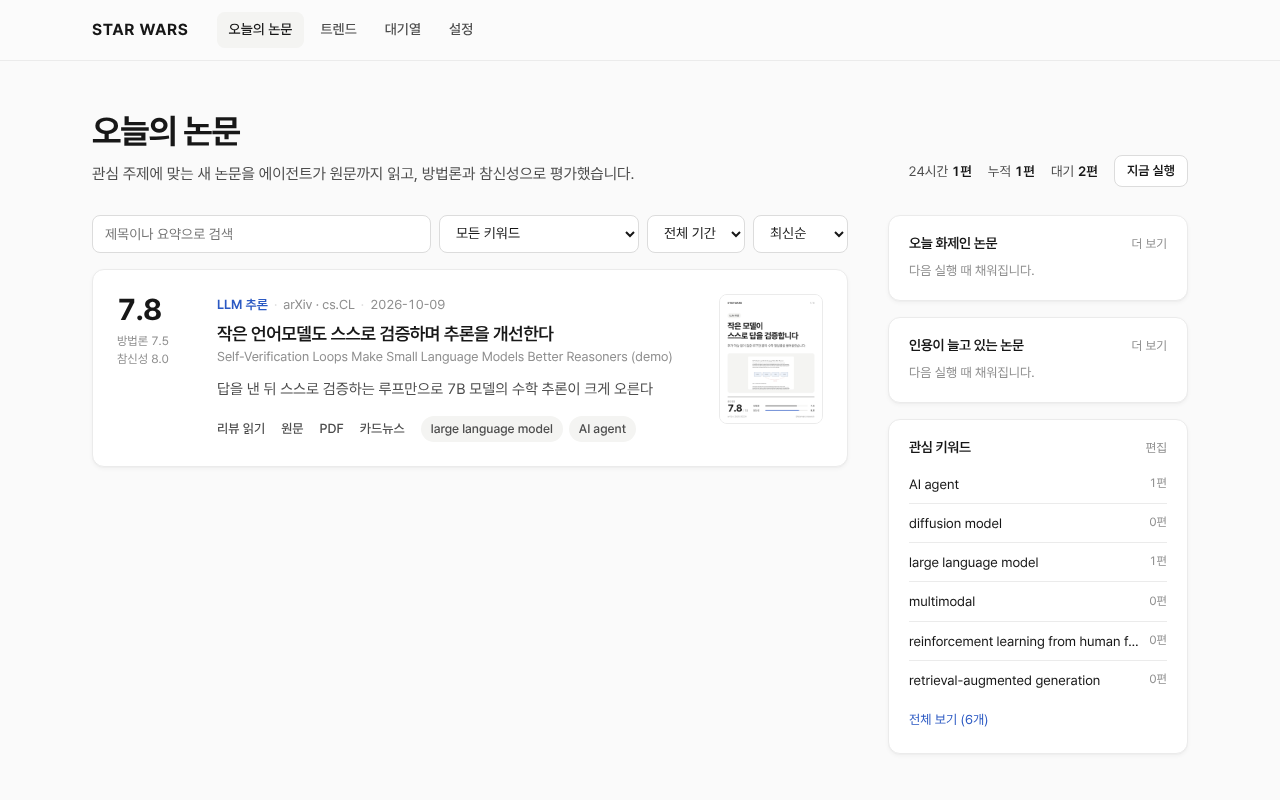
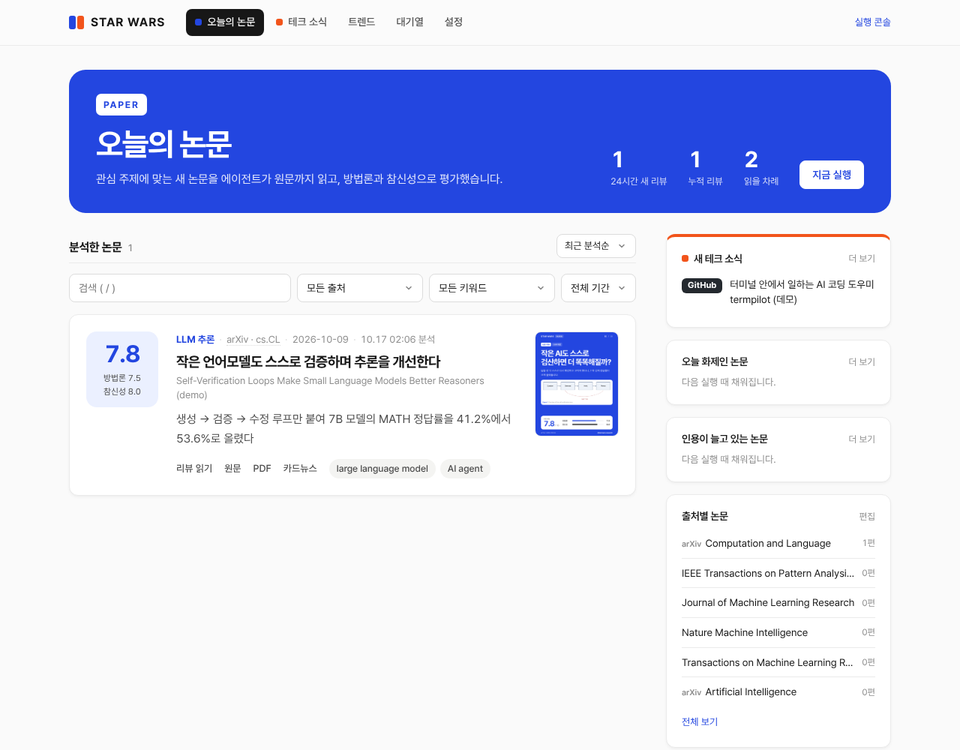
Docs and previews for TECH card news, video cards and the new design
Claude-Session: https://claude.ai/code/session_012bj7GXVabYbePdzsSxXok8

diff --git a/docs/SETUP.md b/docs/SETUP.md
@@ -92,6 +92,13 @@ WRITER_MODEL=claude-haiku-5-5  # 한국어 문장이 약간 단조로워질 수 
 | `CARD_BASE_HASHTAGS` | | `#인공지능,#AI,#논문리뷰` | 캡션에 항상 붙는 해시태그 (쉼표로 구분). 나머지는 AI가 논문 분야에 맞게 고릅니다 |
 | `CARD_HASHTAG_LIMIT` | | `5` | 캡션 해시태그 최대 개수. 인스타그램은 2025년 12월부터 게시물당 5개까지만 허용합니다 |
 | `CARD_BRAND` | | `STAR WARS` | 카드뉴스 로고 글자 |
+| `CARD_TECH_BASE_HASHTAGS` | | `#IT,#테크,#개발자` | 테크 카드뉴스 캡션에 항상 붙는 해시태그 |
+| `TECH_SOURCES` | | `github,hn,geeknews,hf` | 테크 소식을 가져올 곳의 처음 값 (이후에는 **설정 → 테크 소식**에서 바꿉니다) |
+| `TECH_PER_RUN` | | `2` | 실행마다 만드는 테크 카드뉴스 수의 처음 값. 0이면 정기 실행에서 만들지 않습니다 |
+| `TECH_MIN_INTEREST` | | `7` | 테크 소식을 카드뉴스로 만들 최소 흥미도(0~10)의 처음 값 |
+| `GITHUB_TOKEN` | | | 선택. GitHub Trending 페이지를 못 읽을 때 쓰는 GitHub 검색 API의 호출 한도를 늘립니다 (권한 없는 토큰이면 충분) |
+| `VIDEO_CARDS` | | `1` | `0`이면 영상(MP4) 카드를 만들지 않고 이미지 카드만 만듭니다 |
+| `FFMPEG_EXECUTABLE` | | | 영상 카드에 쓸 ffmpeg 경로. 비우면 시스템 ffmpeg, 없으면 `imageio-ffmpeg` 패키지에 들어 있는 것을 씁니다 (Heroku는 따로 설치할 필요 없음) |
 | `SITE_NAME` | | `STAR WARS` | 대시보드 이름 |
 | `READER_MODEL` | | `claude-haiku-5-5` | PDF 정독 모델 |
 | `JUDGE_MODEL` | | `claude-opus-5-5` | 채점 모델 |
